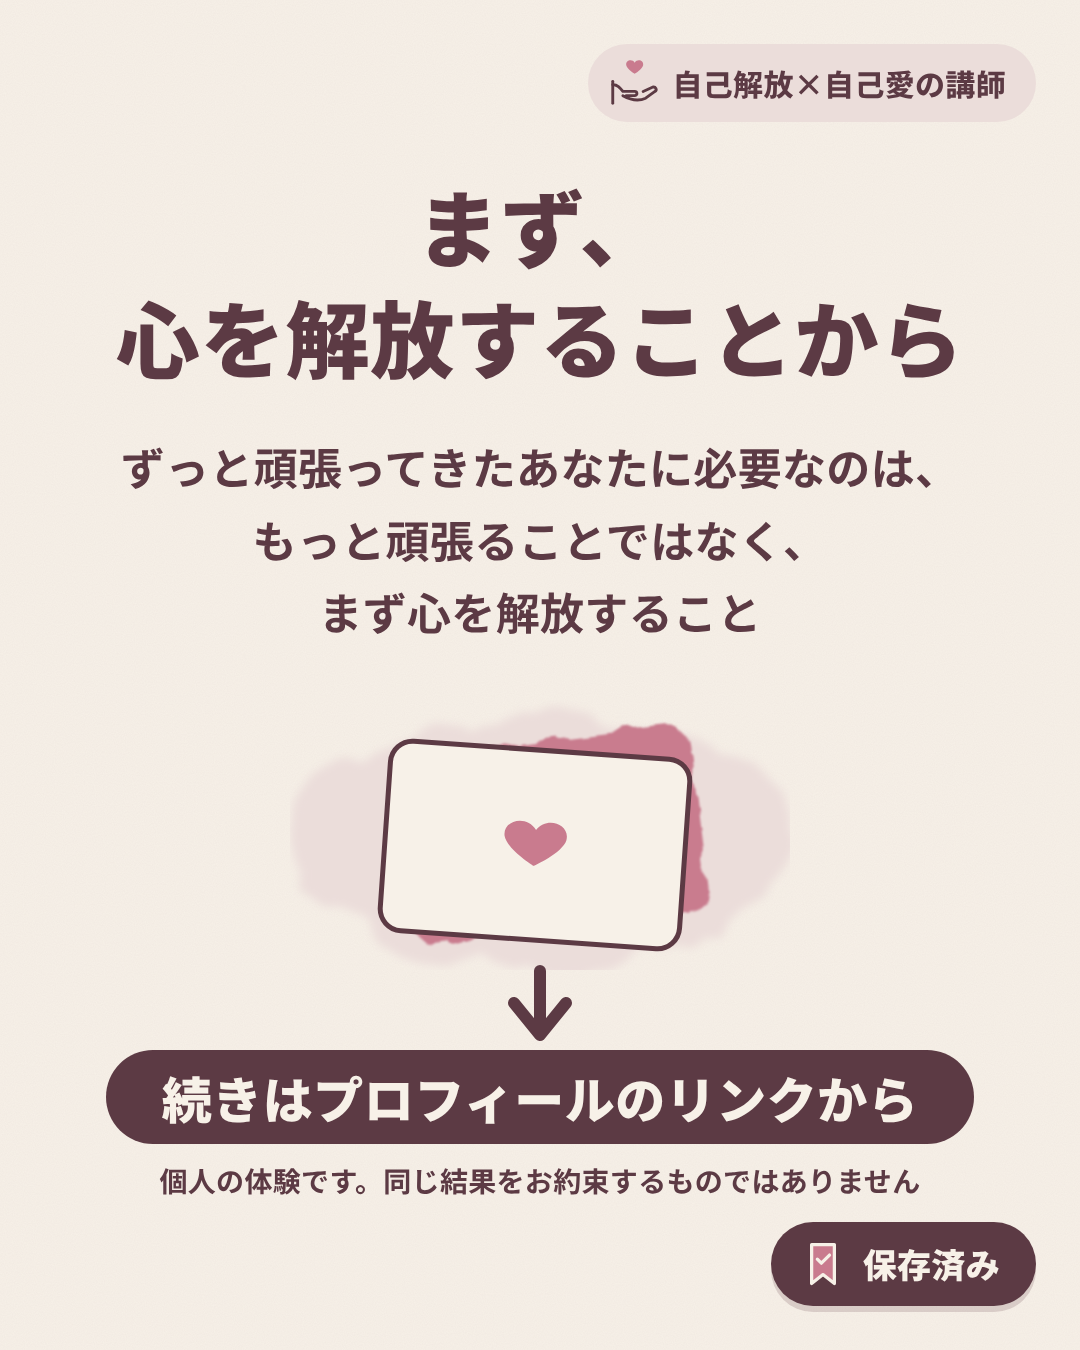
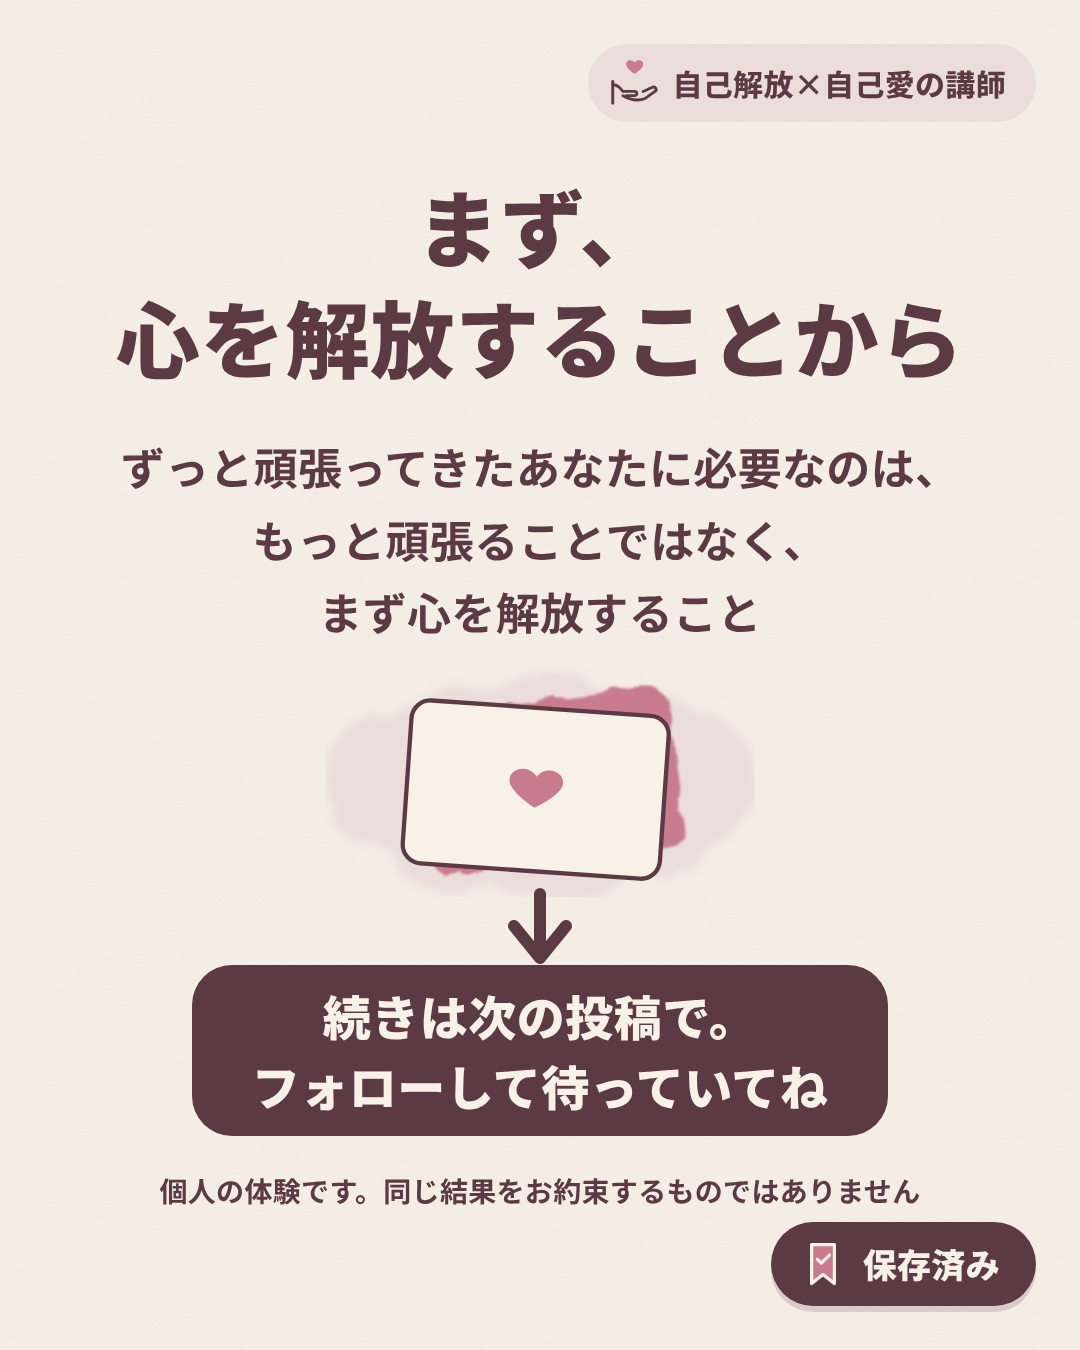
Change page 10 CTA to follow prompt until profile link is ready
Claude-Session: https://claude.ai/code/session_01YUXq2WjFGxvpb1f5f2asyh

Changed region(s): [[0.0917, 0.4978, 0.9167, 0.9022]]

diff --git a/carousel/hasegawa_10p/slides.html b/carousel/hasegawa_10p/slides.html
@@ -286,17 +286,17 @@
 <section class="slide" id="p10">
   <div class="abs center h" style="top:170px; font-size:84px;">まず、<br>心を解放することから</div>
   <div class="abs" style="top:430px; left:90px; right:90px; font-size:44px; line-height:1.65; text-align:center;">ずっと頑張ってきたあなたに必要なのは、<br>もっと頑張ることではなく、<br>まず心を解放すること</div>
-  <svg class="abs" style="left:290px; top:700px" width="500" height="270" viewBox="0 0 500 270">
+  <svg class="abs" style="left:325px; top:665px" width="430" height="232" viewBox="0 0 500 270">
     <ellipse cx="250" cy="140" rx="250" ry="130" fill="#EBDDDA" filter="url(#wash)"/>
     <rect x="110" y="40" width="300" height="190" rx="22" fill="#C97B8E" transform="rotate(-7 260 135)" filter="url(#wc)"/>
     <rect x="95" y="50" width="300" height="190" rx="22" fill="#F7F1E8" stroke="#5C3A44" stroke-width="5" transform="rotate(4 245 145)"/>
     <path d="M245 130 c-10-15-34-8-31 8 3 13 31 28 31 28s28-15 31-28c3-16-21-23-31-8z" fill="#C97B8E" transform="rotate(4 245 145)"/>
   </svg>
-  <svg class="abs" style="left:500px; top:965px" width="80" height="80" viewBox="0 0 80 80"><path d="M40 6 V60 M14 38 L40 70 L66 38" stroke="#5C3A44" stroke-width="12" fill="none" stroke-linecap="round" stroke-linejoin="round"/></svg>
-  <div class="abs center" style="top:1050px; display:flex; justify-content:center;">
-    <div class="h" style="font-size:50px; background:#5C3A44; color:#F7F1E8; border-radius:999px; padding:14px 56px;">続きはプロフィールのリンクから</div>
+  <svg class="abs" style="left:500px; top:888px" width="80" height="80" viewBox="0 0 80 80"><path d="M40 6 V60 M14 38 L40 70 L66 38" stroke="#5C3A44" stroke-width="12" fill="none" stroke-linecap="round" stroke-linejoin="round"/></svg>
+  <div class="abs center" style="top:965px; display:flex; justify-content:center;">
+    <div class="h" style="font-size:48px; line-height:1.45; text-align:center; background:#5C3A44; color:#F7F1E8; border-radius:40px; padding:16px 60px;">続きは次の投稿で。<br>フォローして待っていてね</div>
   </div>
-  <div class="abs" style="left:60px; bottom:150px; right:60px; text-align:center; font-size:28px; font-weight:700;">個人の体験です。同じ結果をお約束するものではありません</div>
+  <div class="abs" style="left:60px; bottom:140px; right:60px; text-align:center; font-size:28px; font-weight:700;">個人の体験です。同じ結果をお約束するものではありません</div>
   <div class="save"><svg><use href="#i-saved"/></svg>保存済み</div>
 </section>
 

diff --git a/hasegawa_instagram_carousel_10p.md b/hasegawa_instagram_carousel_10p.md
@@ -66,7 +66,7 @@
 | 7P | 核心 | 足りないのは、頑張りではなく解放 | 比率の図解（長い帯と短い帯の長さの差。数字なし） | なし |
 | 8P | 図解（ステップ図） | 3ステップで、本音に戻る | 番号バッジ1〜3＋矢印のステップ図＋水彩アイコン | この3ステップを保存（しおりリボン） |
 | 9P | 実践3つ | 今日からできる3つ | チェックボックス3つ＋丸数字＋アイコン | 今夜のやることリストを保存（タップする指） |
-| 10P | CTA | まず、心を解放することから | 案内カードのイメージ＋プロフィール導線の矢印 | 保存済み（塗りつぶし（保存済み）） |
+| 10P | CTA | まず、心を解放することから | カードのイメージ＋フォローを促す矢印 | 保存済み（塗りつぶし（保存済み）） |
 
 ---
 
@@ -124,7 +124,7 @@
 ### 10P（CTA）
 - 見出し：まず、心を解放することから
 - 本文：ずっと頑張ってきたあなたに必要なのは、もっと頑張ることではなく、まず心を解放すること。
-- CTA：続きはプロフィールのリンクから（案内の中身は本人確認・仮）
+- CTA：続きは次の投稿で。フォローして待っていてね（プロフィールのリンクの案内ができるまでの文言。案内ができたら「続きはプロフィールのリンクから」に戻す）
 - 注記：個人の体験です。同じ結果をお約束するものではありません
 - 保存CTA：「保存済み」＋塗りつぶし（保存済み）（右下）
 
@@ -357,7 +357,7 @@
 【描画する文字（この通りに、一文字も変えずに描く。これ以外の文字は描かない）】
 ・まず、心を解放することから
 ・ずっと頑張ってきたあなたに必要なのは、もっと頑張ることではなく、まず心を解放すること
-・続きはプロフィールのリンクから
+・続きは次の投稿で。フォローして待っていてね
 ・個人の体験です。同じ結果をお約束するものではありません
 ・自己解放×自己愛の講師（右上の常設タグ。すべてのページ共通）
 ・保存済み（右下の保存表示）
